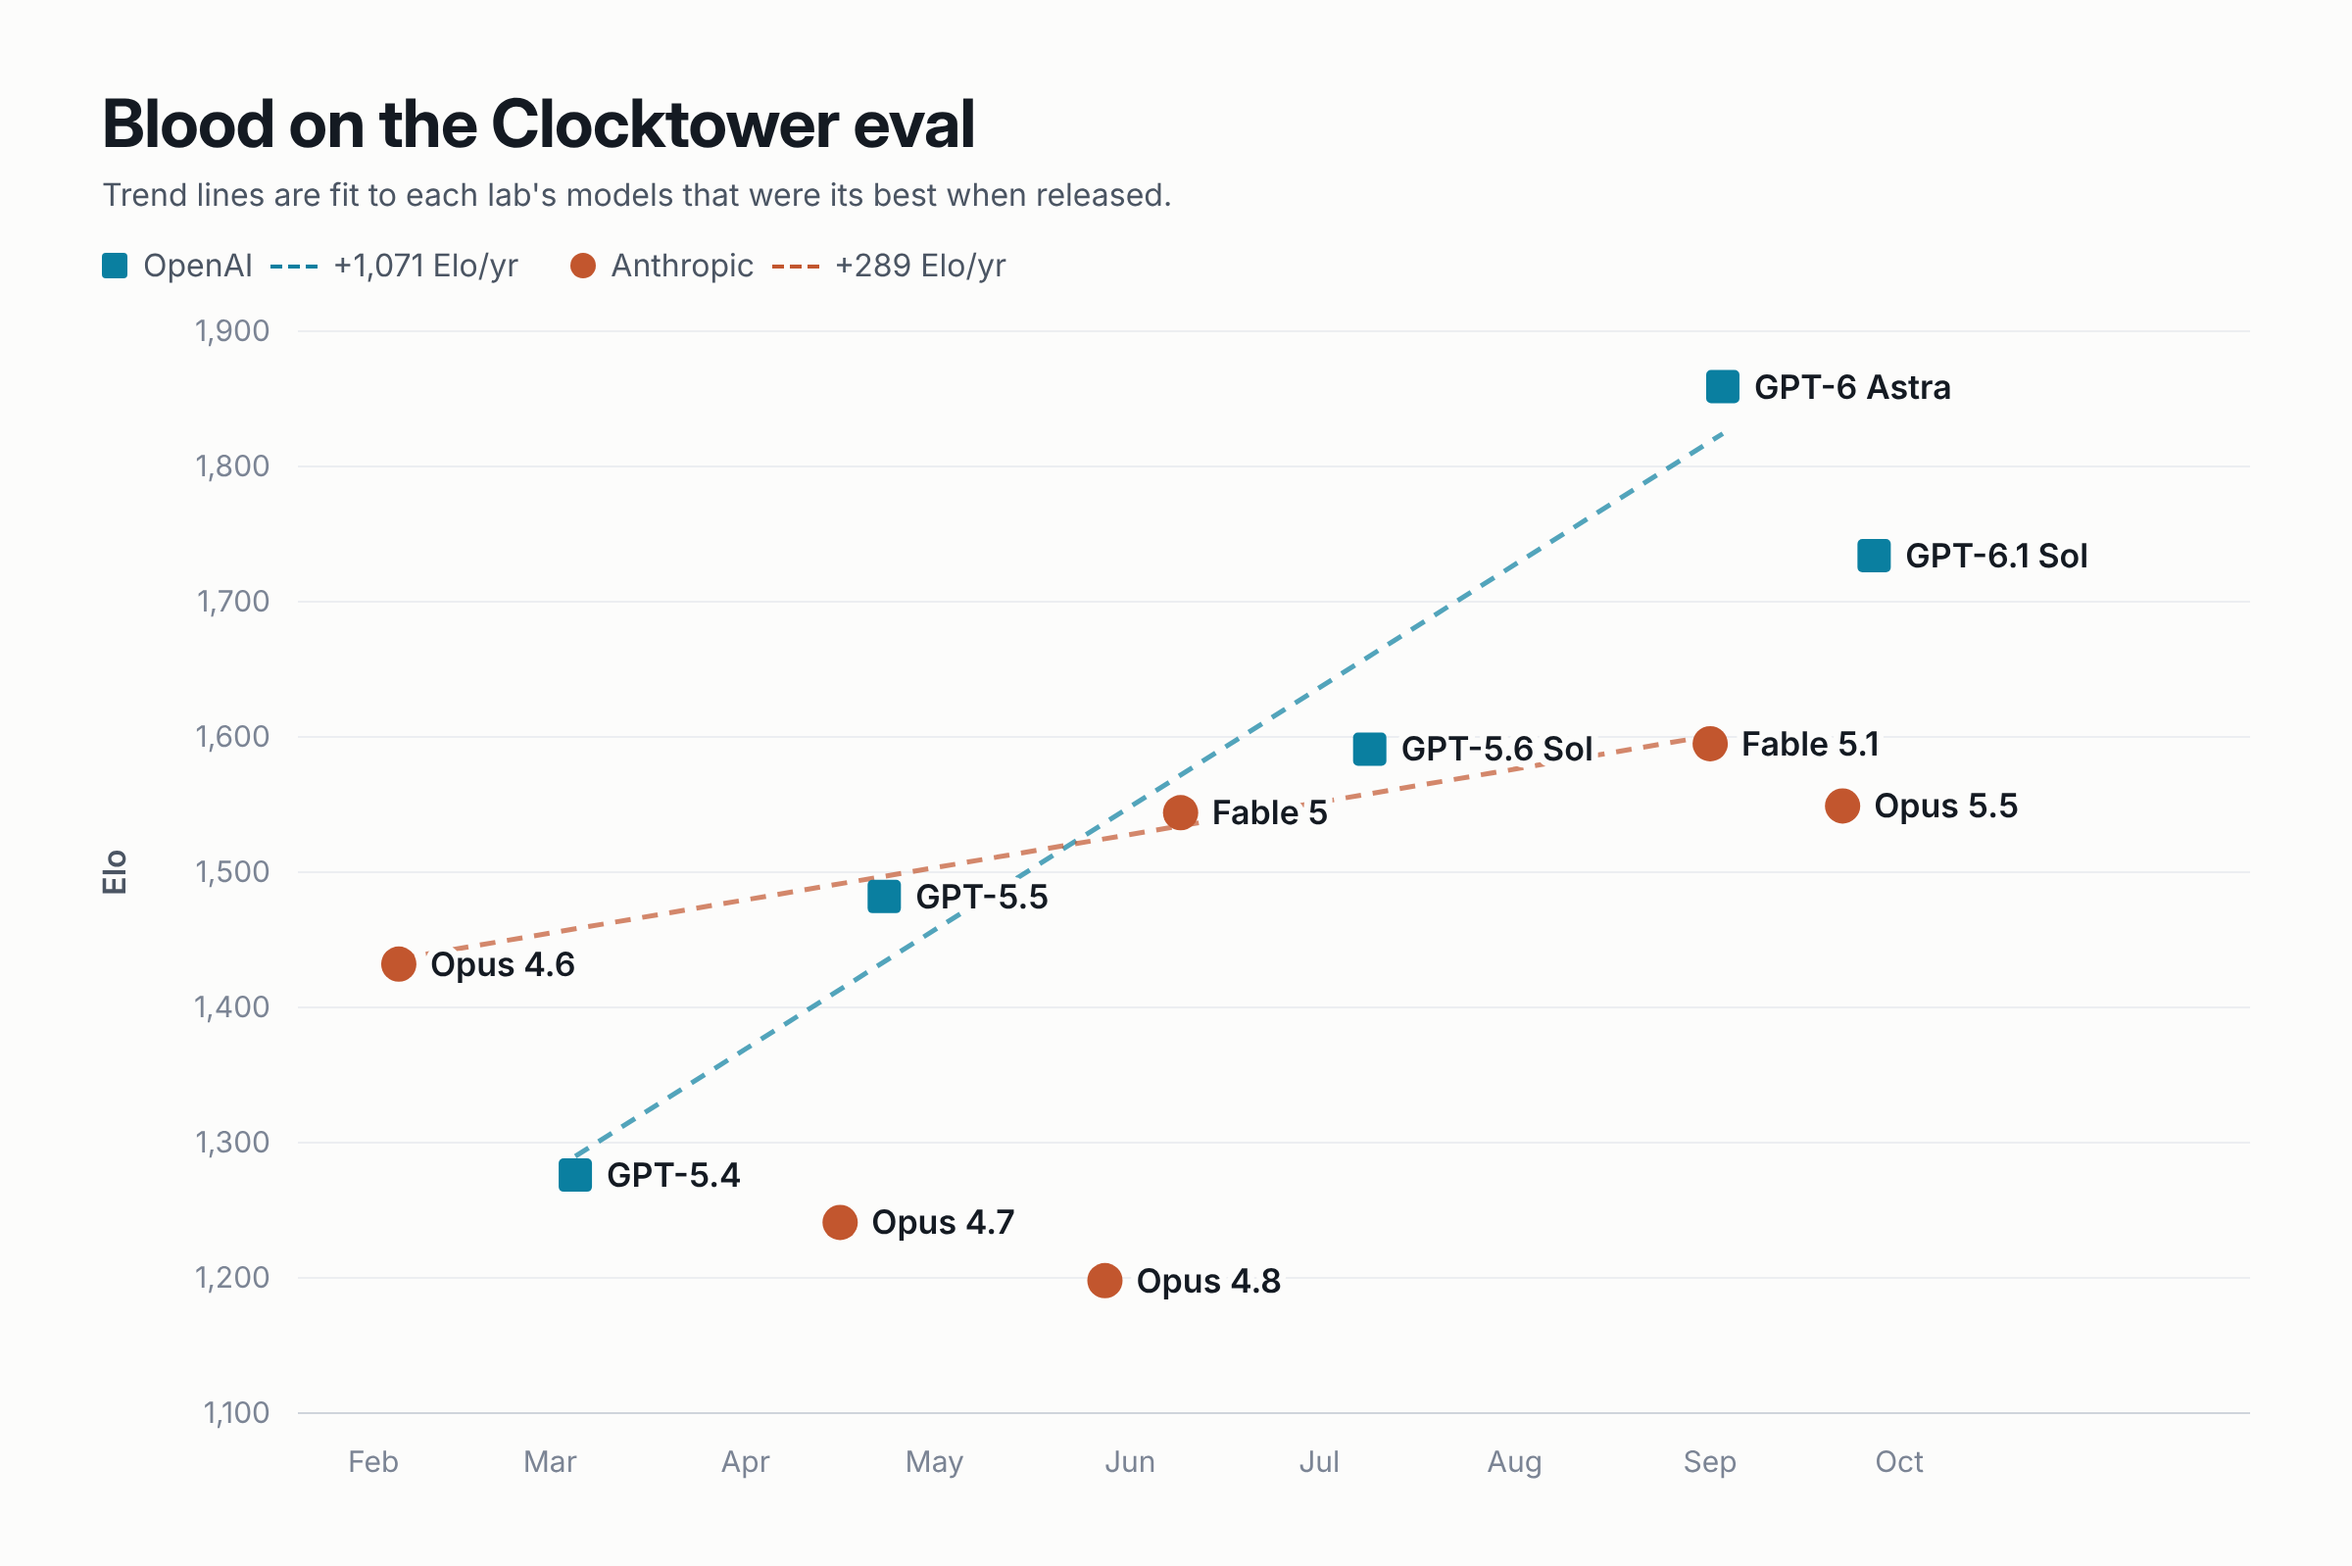
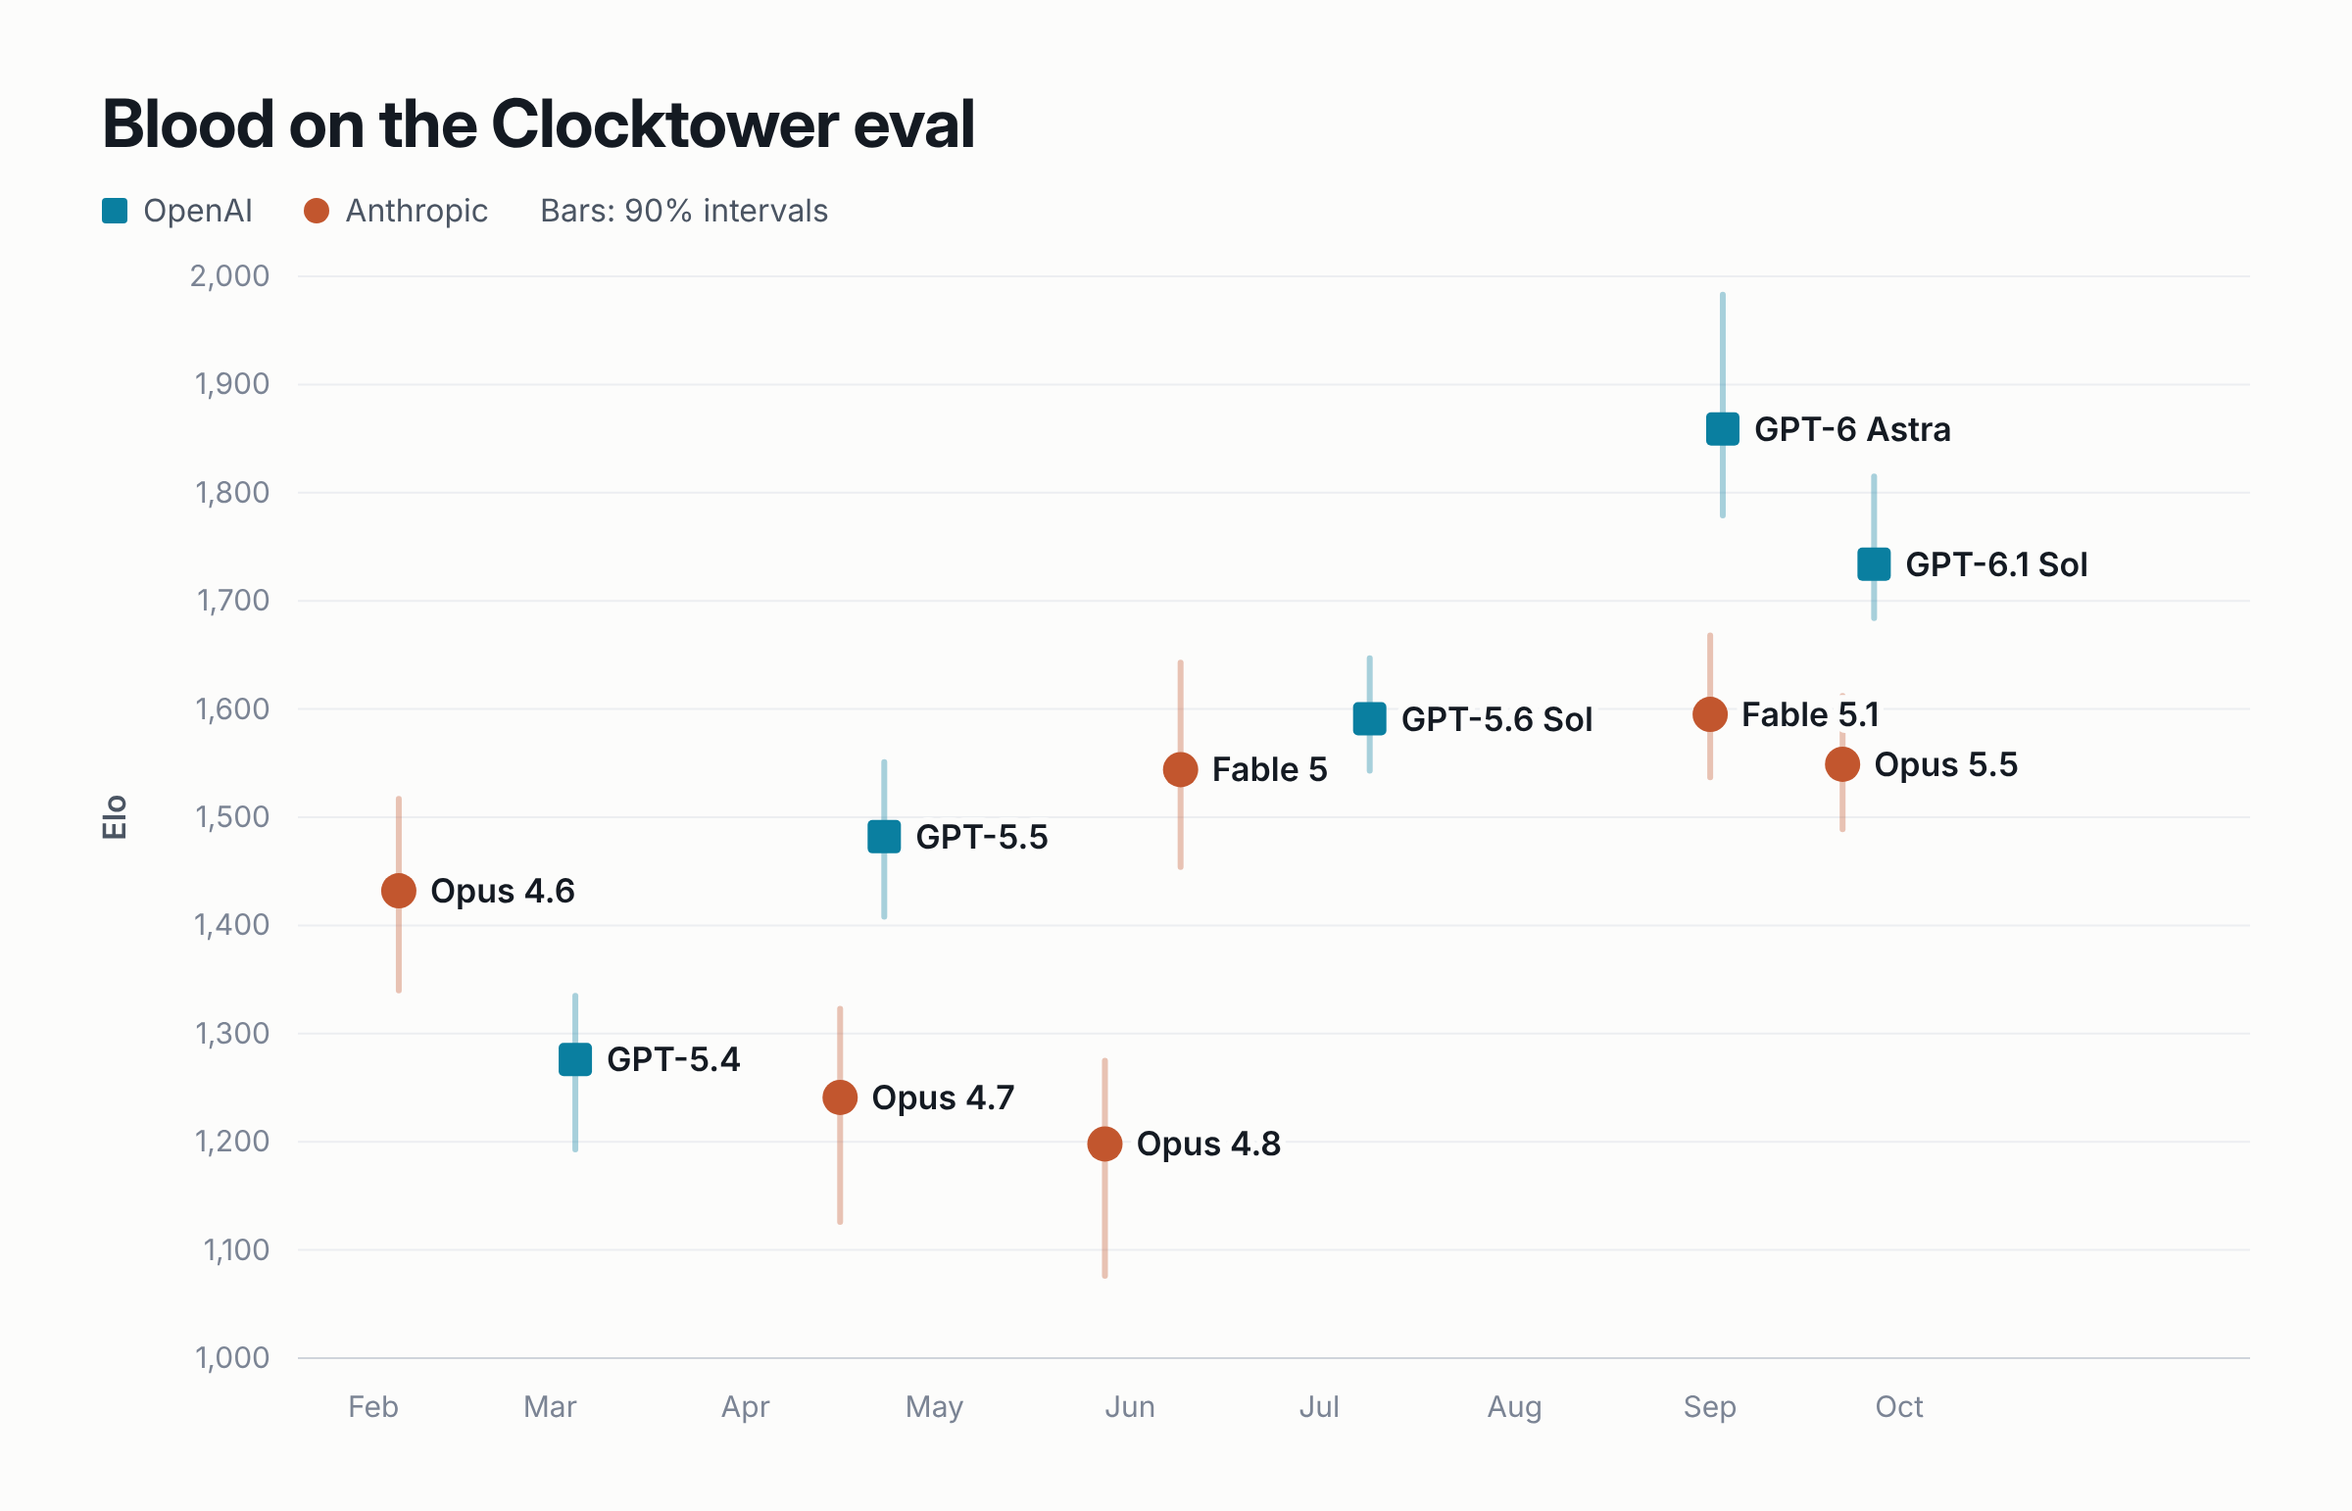
Final ratings chart: drop trend lines, add 90% interval bars
Claude-Session: https://claude.ai/code/session_01NeG7uqGziC8ecmubxuFhiw

diff --git a/docs/charts/final-ratings.html b/docs/charts/final-ratings.html
@@ -4,7 +4,7 @@
 html,body{margin:0;background:#fcfcfb}
 body{width:1200px;font-family:Inter,system-ui,sans-serif;color:#141a22}
 .wrap{padding:44px 52px 30px}
-h1{font:700 34px/1.15 "Inter Display",Inter,sans-serif;margin:0 0 6px;letter-spacing:-.01em}
+h1{font:700 34px/1.15 "Inter Display",Inter,sans-serif;margin:0 0 14px;letter-spacing:-.01em}
 .sub{font-size:16px;color:#4b5563;margin:0 0 16px}
 .legend b{display:inline-block;width:24px;border-top:2.5px dashed currentColor;margin:0 8px 0 4px;vertical-align:4px}
 .legend{display:flex;gap:26px;font-size:16px;color:#4b5563;align-items:center}
@@ -13,8 +13,7 @@ svg text{font-family:Inter,sans-serif}
 </style>
 <div class="wrap">
   <h1>Blood on the Clocktower eval</h1>
-  <p class="sub">Trend lines are fit to each lab's models that were its best when released.</p>
-  <div class="legend"><span><i style="background:#0A7FA0;border-radius:2px"></i>OpenAI <b style="color:#0A7FA0"></b><span id="t-oai"></span></span><span><i style="background:#C2562E;border-radius:50%"></i>Anthropic <b style="color:#C2562E"></b><span id="t-anth"></span></span></div>
+  <div class="legend"><span><i style="background:#0A7FA0;border-radius:2px"></i>OpenAI</span><span><i style="background:#C2562E;border-radius:50%"></i>Anthropic</span><span>Bars: 90% intervals</span></div>
   <svg id="c"></svg>
 </div>
 <script>
@@ -24,7 +23,7 @@ const MON=['Jan','Feb','Mar','Apr','May','Jun','Jul','Aug','Sep','Oct','Nov','De
 const NS='http://www.w3.org/2000/svg',svg=document.getElementById('c');
 const el=(t,a,x)=>{const e=document.createElementNS(NS,t);for(const k in a)e.setAttribute(k,a[k]);if(x!=null)e.textContent=x;svg.appendChild(e);return e};
 // plot area: release date across, Elo up; the right margin holds the labels of the last models
-const W=1096,H=620,L=100,R=150,T=24,B=44,lo=1100,hi=1900;
+const W=1096,H=620,L=100,R=150,T=24,B=44,lo=1000,hi=2000;
 const day=s=>Date.UTC(+s.slice(0,4),+s.slice(5,7)-1,+s.slice(8,10)),t0=Date.UTC(2026,0,20),t1=Date.UTC(2026,9,10);
 const x=s=>L+(day(s)-t0)/(t1-t0)*(W-L-R), y=v=>T+(hi-v)/(hi-lo)*(H-T-B);
 svg.setAttribute('width',W);svg.setAttribute('height',H);
@@ -33,15 +32,8 @@ for(let v=lo;v<=hi;v+=100){el('line',{x1:L,x2:W,y1:y(v),y2:y(v),stroke:v===lo?'#
 for(let m=1;m<=9;m++){const s=`2026-${String(m+1).padStart(2,'0')}-01`;
   el('text',{x:x(s),y:H-B+30,'text-anchor':'middle','font-size':15,fill:'#7b8494'},MON[m])}
 el('text',{x:12,y:(T+H-B)/2,'text-anchor':'middle','font-size':16,'font-weight':600,fill:'#4b5563',transform:`rotate(-90 12 ${(T+H-B)/2})`},'Elo');
-// frontier trends: least-squares fit over each lab's models that beat all its earlier ones at release
-const FRONT={OpenAI:['gpt-5.4','gpt-5.5','gpt-5.6-sol','gpt-6-astra'],Anthropic:['claude-opus-4-6','claude-fable-5','claude-fable-5-1']};
-const R2=Object.fromEntries(D.models.map(m=>[m.id,m])), yr=s=>(day(s)-Date.UTC(2026,0,1))/864e5/365;
-for(const [lab,ids] of Object.entries(FRONT)){const ms=ids.map(i=>R2[i]),ts=ms.map(m=>yr(m.date)),vs=ms.map(m=>m.combined);
-  const mt=ts.reduce((a,b)=>a+b)/ts.length,mv=vs.reduce((a,b)=>a+b)/vs.length;
-  const sl=ts.reduce((a,t,i)=>a+(t-mt)*(vs[i]-mv),0)/ts.reduce((a,t)=>a+(t-mt)**2,0),f=s=>mv+sl*(yr(s)-mt);
-  const a=ms[0].date,b=ms[ms.length-1].date,c=lab==='Anthropic'?'#C2562E':'#0A7FA0';
-  el('line',{x1:x(a),y1:y(f(a)),x2:x(b),y2:y(f(b)),stroke:c,'stroke-width':2.5,'stroke-dasharray':'8 6','stroke-opacity':.7});
-  document.getElementById(lab==='Anthropic'?'t-anth':'t-oai').textContent=`+${Math.round(sl).toLocaleString('en-US')} Elo/yr`}
+for(const m of D.models){const c=m.lab==='Anthropic'?'#C2562E':'#0A7FA0';
+  el('line',{x1:x(m.date),x2:x(m.date),y1:y(m.c90[0]),y2:y(m.c90[1]),stroke:c,'stroke-width':3,'stroke-linecap':'round','stroke-opacity':.35})}
 for(const m of D.models){const c=m.lab==='Anthropic'?'#C2562E':'#0A7FA0',cx=x(m.date),cy=y(m.combined);
   if(m.lab==='Anthropic')el('circle',{cx,cy,r:9,fill:c});
   else el('rect',{x:cx-8.5,y:cy-8.5,width:17,height:17,rx:2.5,fill:c});
